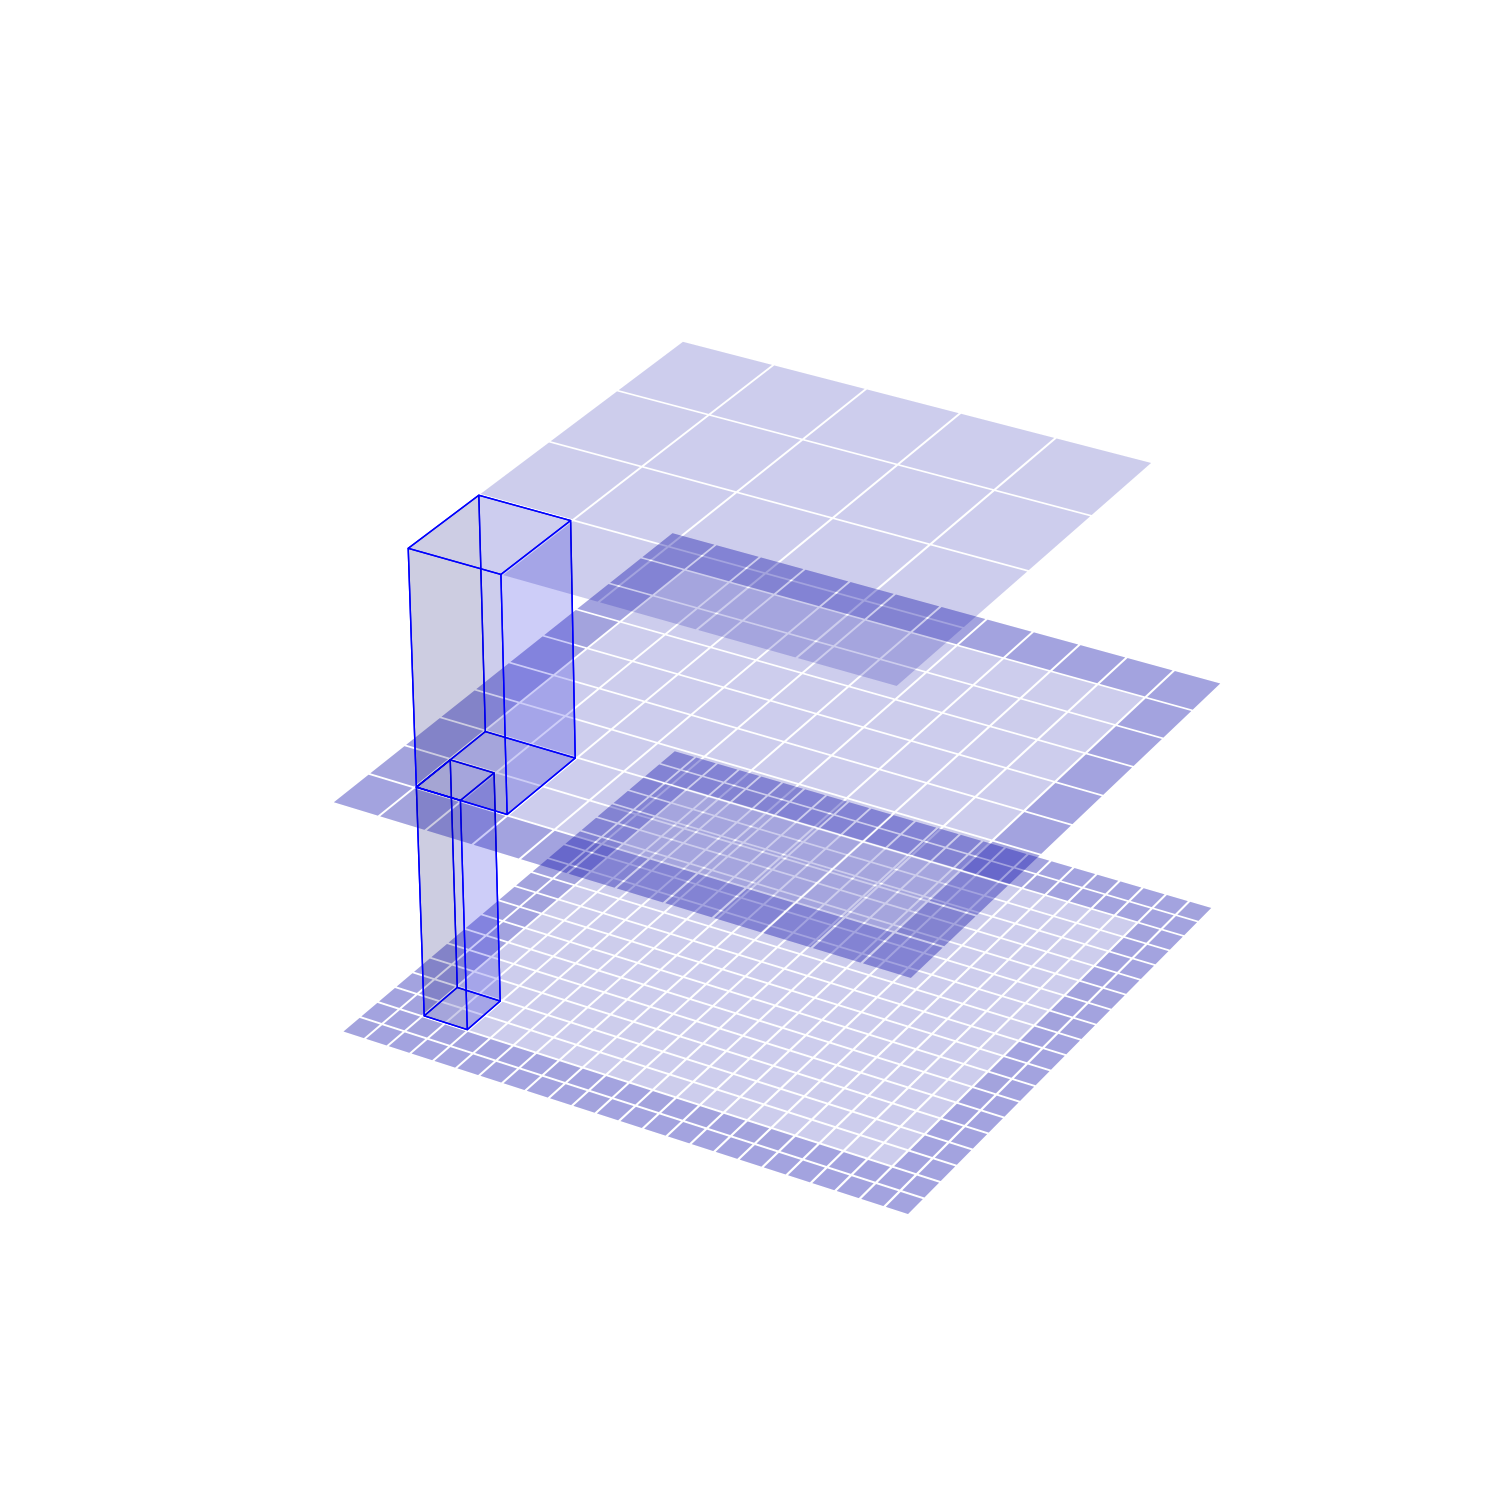
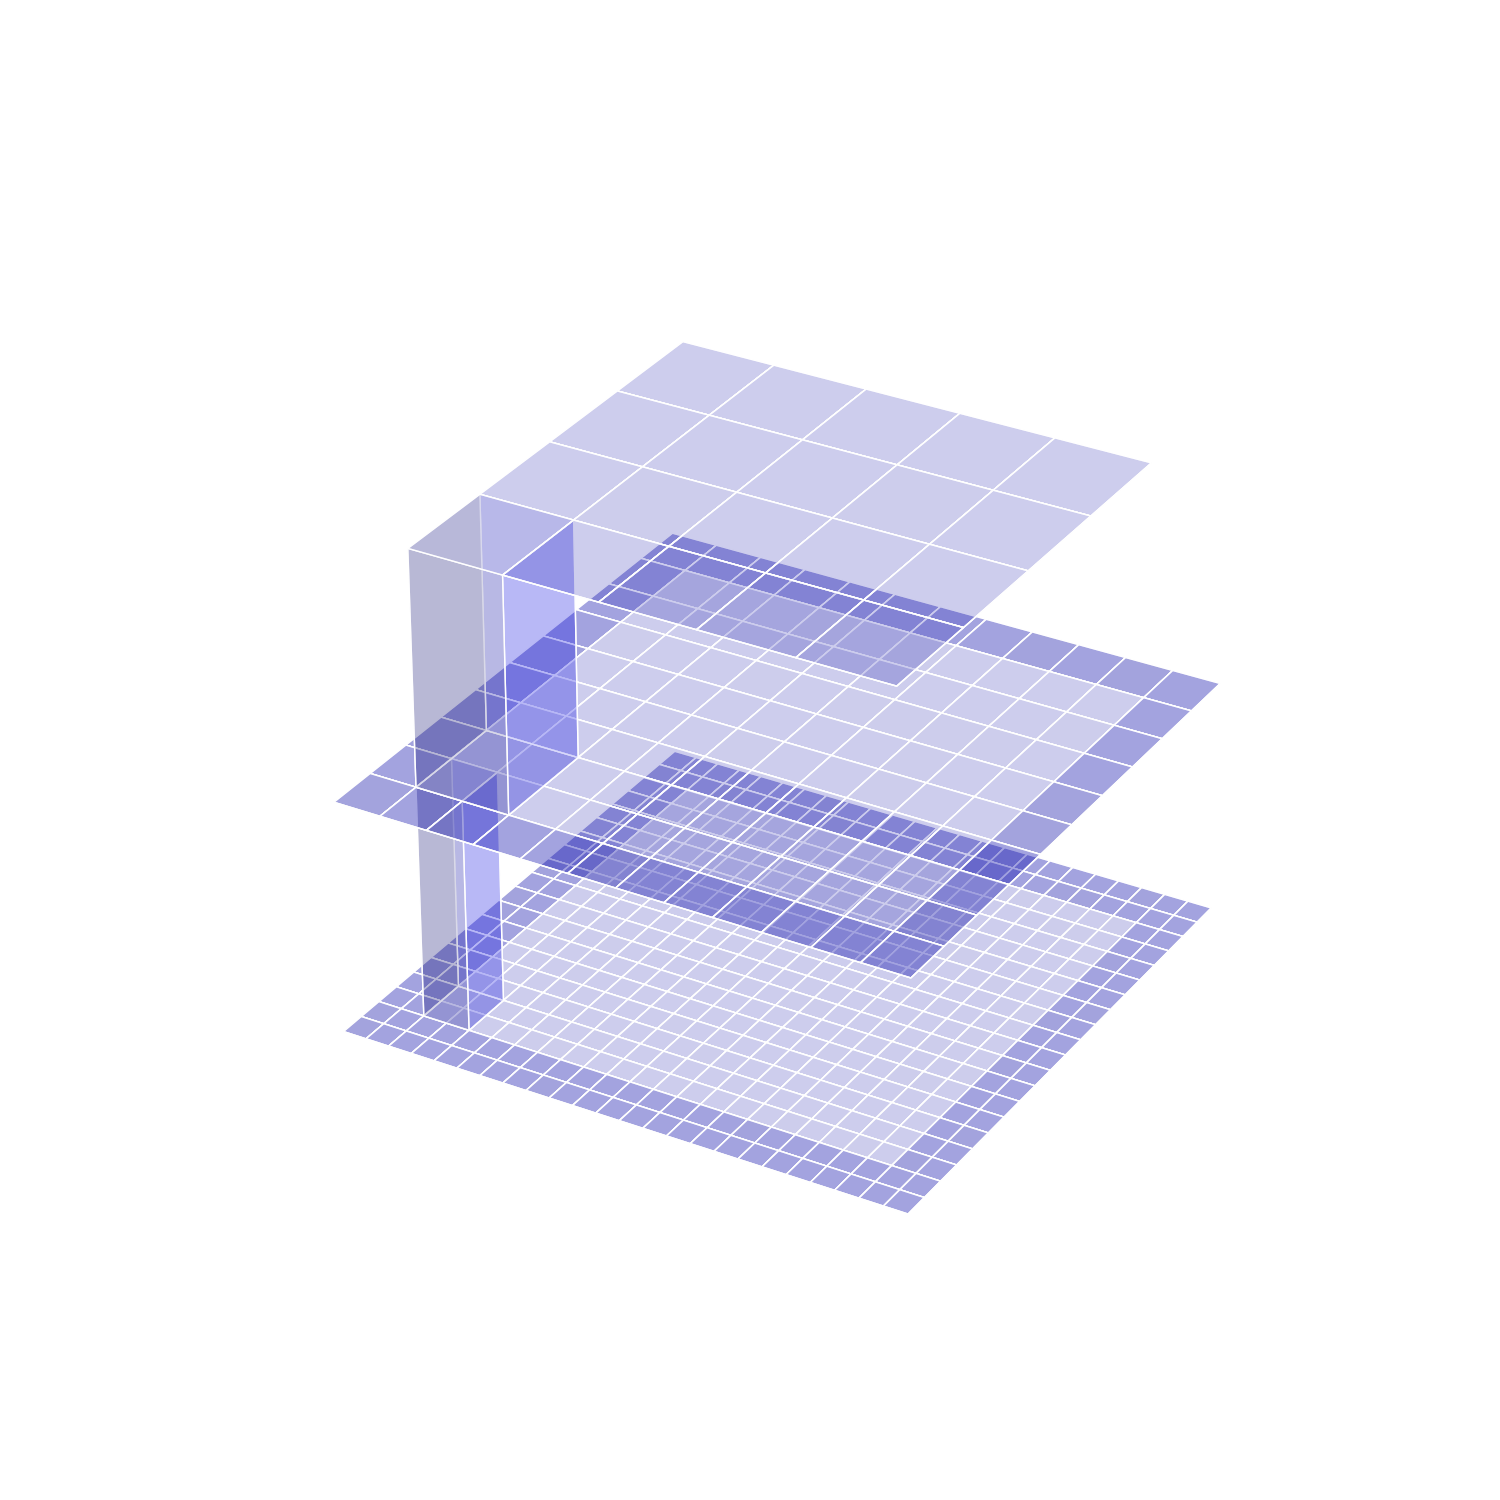
Module for plotting embedding space in 2D

diff --git a/backend/src/report/scatter.py b/backend/src/report/scatter.py
@@ -1,0 +1,137 @@
+import getopt
+import getpass
+import os
+import sys
+from matplotlib import pyplot as plt
+
+from dotenv import load_dotenv
+from pymilvus import db, Collection
+
+from ..db_utilities.datasets import DatasetOptions
+from ..db_utilities.utils import create_connection
+from ..CONSTANTS import *
+
+
+def parsing():
+    # Remove 1st argument from the list of command line arguments
+    arguments = sys.argv[1:]
+
+    # Options
+    options = "hd:c:b:r:s:"
+
+    # Long options
+    long_options = ["help", "database", "dataset", "batch_size", "repopulate", "early_stop"]
+
+    # Prepare flags
+    flags = {"database": DEFAULT_DATABASE_NAME, "dataset": DatasetOptions.BEST_ARTWORKS.value["name"]}
+
+    # Parsing argument
+    arguments, values = getopt.getopt(arguments, options, long_options)
+
+    if len(arguments) > 0 and arguments[0][0] in ("-h", "--help"):
+        print(f'This script generates a scatter plot of low dimensional embedding for a dataset.\n\
+        -d or --database: database name (default={flags["database"]}).\n\
+        -c or --dataset: dataset (default={flags["dataset"]}).')
+        sys.exit(0)
+
+    # Checking each argument
+    for arg, val in arguments:
+        if arg in ("-d", "--database"):
+            flags["database"] = val
+        elif arg in ("-c", "--dataset"):
+            if val in [dataset.value["name"] for dataset in DatasetOptions]:
+                flags["dataset"] = val
+            else:
+                raise ValueError("Dataset not supported.")
+
+    return flags
+
+
+def generate_scatter_plot(collection: Collection):
+    print("Generating scatter plot...")
+    # Load collection in memory
+    collection.load()
+
+    # Fetch vectors
+    entities = []
+    try:
+        for i in range(0, collection.num_entities, SEARCH_LIMIT):
+            if collection.num_entities > 0:
+                # Get SEARCH_LIMIT entities
+                query_result = collection.query(
+                    expr=f"index in {list(range(i, i + SEARCH_LIMIT))}",
+                    output_fields=["x", "y"]
+                )
+                # Add entities to the list of entities
+                entities += query_result
+
+    except Exception as e:
+        print(e.__str__())
+        print("Error in fetching vectors. Scatter plot generation failed!")
+        return
+
+    # Create scatter plot
+    x = [entity["x"] for entity in entities]
+    y = [entity["y"] for entity in entities]
+
+    # Create figure
+    fig, ax = plt.subplots(figsize=(15, 15))
+
+    # Create scatter plot
+    ax.scatter(x, y, s=2)
+
+    # Increase font size of axis ticks
+    ax.tick_params(axis="both", which="major", labelsize=14)
+    # Save scatter plot
+    plt.savefig(f"./src/report/{collection.name}_scatter.png")
+    print(f"Scatter plot saved as {collection.name}_scatter.png.")
+
+    # Release collection
+    collection.release()
+
+
+if __name__ == "__main__":
+    if ENV_FILE_LOCATION not in os.environ:
+        # Try to load /.env file
+        choice = input("Do you want to load /.env file? (y/n) ")
+        if choice.lower() == "y" and os.path.exists("/.env"):
+            load_dotenv("/.env")
+        else:
+            print("export .env file location as ENV_FILE_LOCATION. Export $HOME/image-viz/.env if running outside "
+                  "of docker container, export /.env if running inside docker container backend.")
+            sys.exit(1)
+    else:
+        # Load environment variables
+        load_dotenv(os.getenv(ENV_FILE_LOCATION))
+
+    # Get arguments
+    flags = parsing()
+
+    choice = input("Use root user? (y/n) ")
+    if choice == "y":
+        user = ROOT_USER
+        passwd = ROOT_PASSWD
+    elif choice.lower() == "n":
+        user = input("Username: ")
+        passwd = getpass.getpass("Password: ")
+    else:
+        print("Wrong choice.")
+        sys.exit(1)
+
+    # Try creating a connection and selecting a database. If it fails, exit.
+    try:
+        create_connection(user, passwd)
+        db.using_database(flags["database"])
+    except Exception as e:
+        print(e.__str__())
+        print("Error in main. Connection failed!")
+        sys.exit(1)
+
+    # Get the collection object
+    collection_name = flags["dataset"]
+    collection = Collection(collection_name)
+
+    print(f"Using collection {collection_name}. The collection contains {collection.num_entities} entities.")
+
+    generate_scatter_plot(collection)
+    sys.exit(0)

diff --git a/backend/src/report/tiling.py b/backend/src/report/tiling.py
@@ -5,7 +5,7 @@ Module to visualize tiles.
 import matplotlib.pyplot as plt
 
 
-DIST_STEP = 0.1
+DIST_STEP = 0.
 DEPTH_STEP = 0.5
 
 
@@ -153,17 +153,19 @@ def plot_tiles(tiles):
 
     # Define the color and transparency of the rectangles
     color = (0, 0, 1, 0.1)
+    edge_color = (1, 1, 1, 1)
+    slightly_stronger_color = (0, 0, 1, 0.15)
     stronger_color = (0, 0, 1, 0.2)
 
     # Find the limits at depth DEPTH_STEP
-    min_x = min([tile[0] for tile in tiles if tile[2] == DEPTH_STEP])
-    max_x = max([tile[0] for tile in tiles if tile[2] == DEPTH_STEP])
-    min_y = min([tile[1] for tile in tiles if tile[2] == DEPTH_STEP])
-    max_y = max([tile[1] for tile in tiles if tile[2] == DEPTH_STEP])
+    min_x_1 = min([tile[0] for tile in tiles if tile[2] == DEPTH_STEP])
+    max_x_1 = max([tile[0] for tile in tiles if tile[2] == DEPTH_STEP])
+    min_y_1 = min([tile[1] for tile in tiles if tile[2] == DEPTH_STEP])
+    max_y_1 = max([tile[1] for tile in tiles if tile[2] == DEPTH_STEP])
 
     # Find the minimum and maximum values for x and y at depth 2 * DEPTH_STEP
-    min_x_1 = min([tile[0] for tile in tiles if tile[2] == 2 * DEPTH_STEP])
-    min_y_1 = min([tile[1] for tile in tiles if tile[2] == 2 * DEPTH_STEP])
+    min_x = min([tile[0] for tile in tiles if tile[2] == 2 * DEPTH_STEP])
+    min_y = min([tile[1] for tile in tiles if tile[2] == 2 * DEPTH_STEP])
 
     # Find the minimum and maximum values for x and y at depth 0
     min_x_2 = min([tile[0] for tile in tiles if tile[2] == 0])
@@ -174,16 +176,17 @@ def plot_tiles(tiles):
     # Draw each rectangle
     for tile in tiles:
         x, y, z, dx, dy, dz = tile
-        if (z == DEPTH_STEP and x == 2 and y == 2) or (z == DEPTH_STEP * 2 and x == min_x_1 and y == min_y_1):
+        if (z == DEPTH_STEP and x == 2 and y == 2) or (z == DEPTH_STEP * 2 and x == min_x and y == min_y):
             # Draw the rectangle at the highest zoom level
-            ax.bar3d(x, y, z, dx - DIST_STEP, dy - DIST_STEP, -DEPTH_STEP, color=color, edgecolor=(0, 0, 1, 1))
-        elif (z == DEPTH_STEP and (x == min_x or x == max_x or y == min_y or y == max_y)) or \
+            ax.bar3d(x, y, z, dx - DIST_STEP, dy - DIST_STEP, -DEPTH_STEP, color=slightly_stronger_color,
+                     edgecolor=edge_color)
+        elif (z == DEPTH_STEP and (x == min_x_1 or x == max_x_1 or y == min_y_1 or y == max_y_1)) or \
                 (z == 0 * 2 and (x == min_x_2 or x == max_x_2 or y == min_y_2 or y == max_y_2)) or \
                 (z == 0 and (x == min_x_2 + 1 or x == max_x_2 - 1 or y == min_y_2 + 1 or y == max_y_2 - 1)):
             # Draw the rectangles at the border of the highest zoom level
-            ax.bar3d(x, y, z, dx - DIST_STEP, dy - DIST_STEP, dz, color=stronger_color)
+            ax.bar3d(x, y, z, dx - DIST_STEP, dy - DIST_STEP, dz, color=stronger_color, edgecolor=edge_color)
         else:
-            ax.bar3d(x, y, z, dx - DIST_STEP, dy - DIST_STEP, dz, color=color)
+            ax.bar3d(x, y, z, dx - DIST_STEP, dy - DIST_STEP, dz, color=color, edgecolor=edge_color)
 
     ax.grid(False)
     ax.axis('off')
